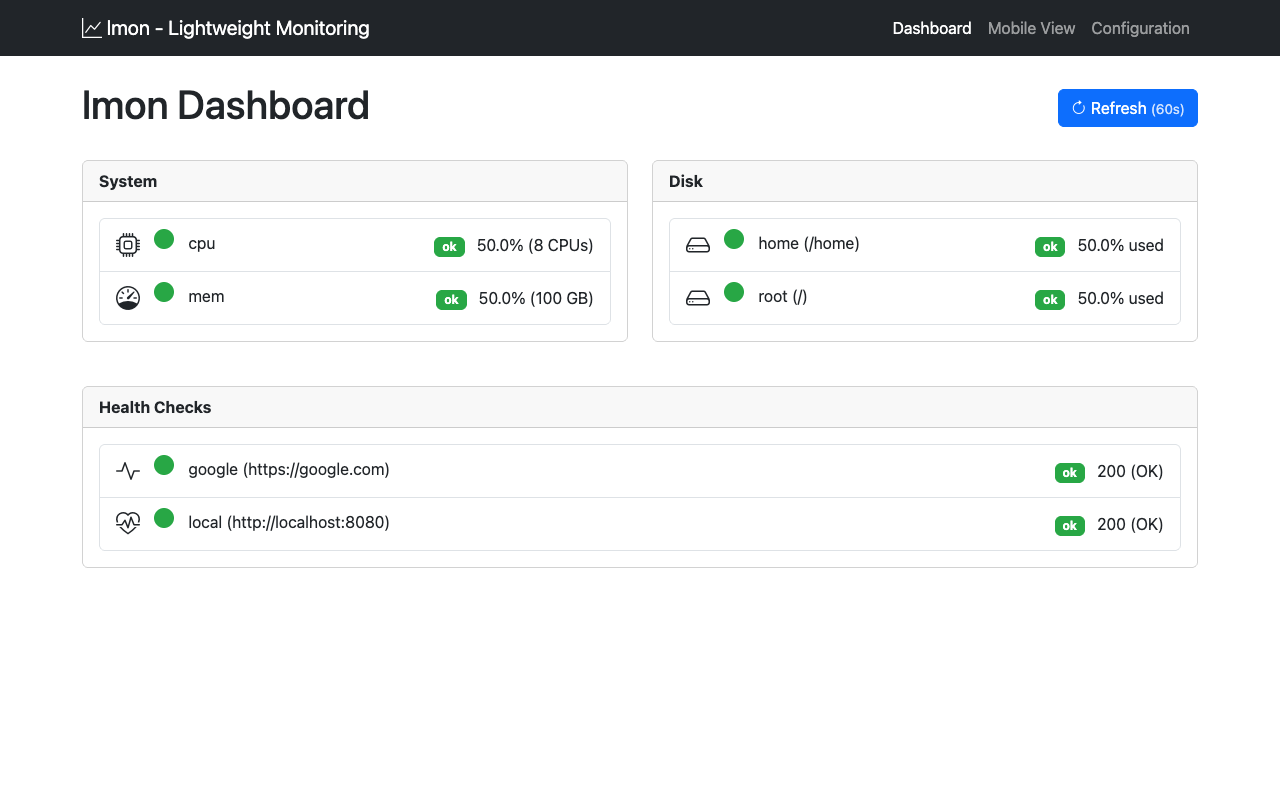
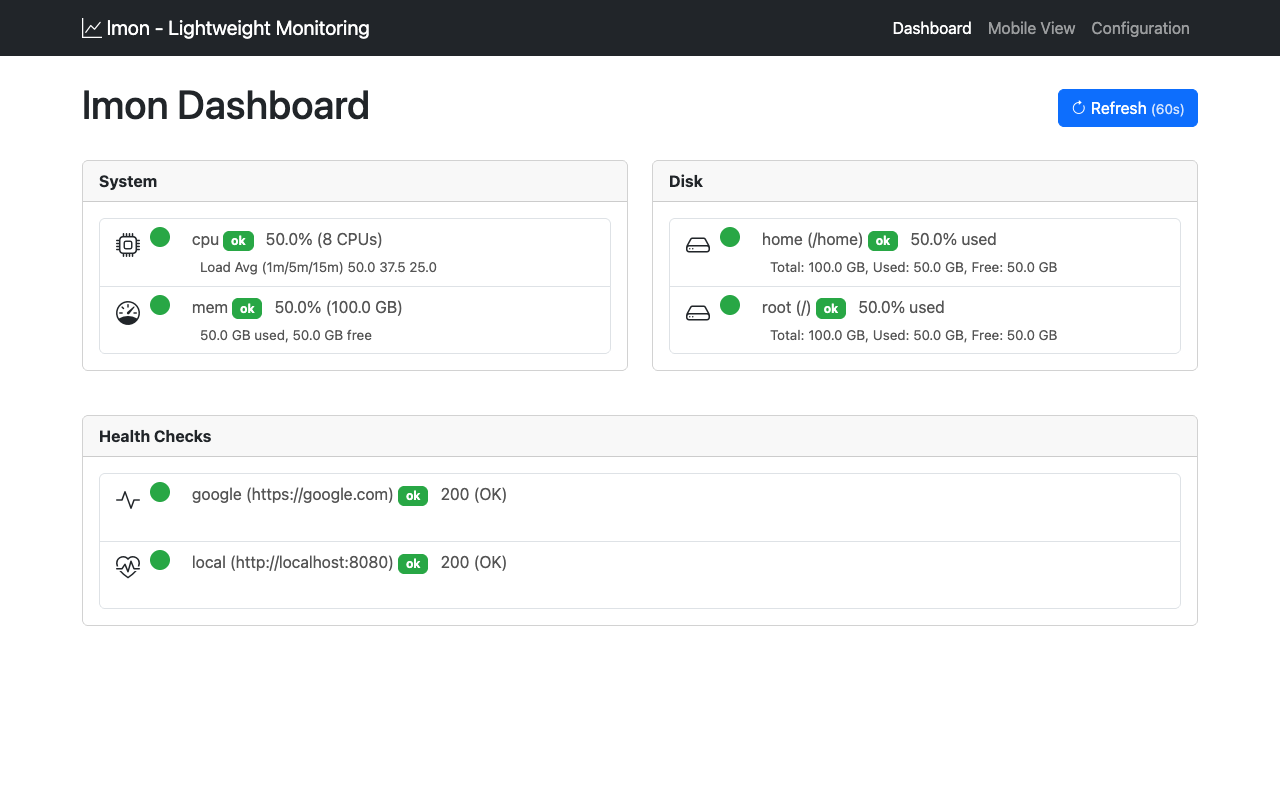
pr feedback addressd

diff --git a/monitors/disk/disk_test.go b/monitors/disk/disk_test.go
@@ -126,12 +126,12 @@ func TestDisk_Check_Mock(t *testing.T) {
 		threshold int
 		want      monitors.Result
 	}{
-		{"green 50", 50, 100 * common.Gigabyte, nil, 90, monitors.Result{Status: monitors.RAGGreen, Value: "50.0% used", Value2: "Total: 100.0 GB, Used: 50.0 GB, Free: 50.0 GB"}},
-		{"green 90", 80, 100 * common.Gigabyte, nil, 90, monitors.Result{Status: monitors.RAGGreen, Value: "80.0% used", Value2: "Total: 100.0 GB, Used: 80.0 GB, Free: 20.0 GB"}},
-		{"amber 81", 81, 100 * common.Gigabyte, nil, 90, monitors.Result{Status: monitors.RAGAmber, Value: "81.0% used", Value2: "Total: 100.0 GB, Used: 81.0 GB, Free: 19.0 GB"}},
-		{"amber 89", 89, 100 * common.Gigabyte, nil, 90, monitors.Result{Status: monitors.RAGAmber, Value: "89.0% used", Value2: "Total: 100.0 GB, Used: 89.0 GB, Free: 11.0 GB"}},
-		{"red   90", 90, 100 * common.Gigabyte, nil, 90, monitors.Result{Status: monitors.RAGRed, Value: "90.0% used", Value2: "Total: 100.0 GB, Used: 90.0 GB, Free: 10.0 GB"}},
-		{"red  100", 100, 100 * common.Gigabyte, nil, 90, monitors.Result{Status: monitors.RAGRed, Value: "100.0% used", Value2: "Total: 100.0 GB, Used: 100.0 GB, Free: 0.0 GB"}},
+		{"green 50", 50, 100 * common.Gigibyte, nil, 90, monitors.Result{Status: monitors.RAGGreen, Value: "50.0% used", Value2: "Total: 100.0 GB, Used: 50.0 GB, Free: 50.0 GB"}},
+		{"green 90", 80, 100 * common.Gigibyte, nil, 90, monitors.Result{Status: monitors.RAGGreen, Value: "80.0% used", Value2: "Total: 100.0 GB, Used: 80.0 GB, Free: 20.0 GB"}},
+		{"amber 81", 81, 100 * common.Gigibyte, nil, 90, monitors.Result{Status: monitors.RAGAmber, Value: "81.0% used", Value2: "Total: 100.0 GB, Used: 81.0 GB, Free: 19.0 GB"}},
+		{"amber 89", 89, 100 * common.Gigibyte, nil, 90, monitors.Result{Status: monitors.RAGAmber, Value: "89.0% used", Value2: "Total: 100.0 GB, Used: 89.0 GB, Free: 11.0 GB"}},
+		{"red   90", 90, 100 * common.Gigibyte, nil, 90, monitors.Result{Status: monitors.RAGRed, Value: "90.0% used", Value2: "Total: 100.0 GB, Used: 90.0 GB, Free: 10.0 GB"}},
+		{"red  100", 100, 100 * common.Gigibyte, nil, 90, monitors.Result{Status: monitors.RAGRed, Value: "100.0% used", Value2: "Total: 100.0 GB, Used: 100.0 GB, Free: 0.0 GB"}},
 	}
 
 	for _, tt := range tests {
@@ -151,7 +151,7 @@ func Test_Check_PushOnAddWithBreach(t *testing.T) {
 	push := monitors.NewMockPush()
 
 	svc := monitors.NewService(t.Context(), 10*time.Millisecond, time.Millisecond, push.Push)
-	d := NewDisk("test", "/test", 90, "", MockDiskProvider{Current: atomic.NewFloat64(90), total: 100 * common.Gigabyte, err: nil, path: "/test"})
+	d := NewDisk("test", "/test", 90, "", MockDiskProvider{Current: atomic.NewFloat64(90), total: 100 * common.Gigibyte, err: nil, path: "/test"})
 	svc.Add(t.Context(), d)
 
 	assert.Eventually(t, func() bool {
@@ -168,7 +168,7 @@ func Test_Check_PushOnAddWithErr(t *testing.T) {
 	push := monitors.NewMockPush()
 
 	svc := monitors.NewService(t.Context(), 10*time.Millisecond, time.Millisecond, push.Push)
-	d := NewDisk("test", "/test", 90, "", MockDiskProvider{Current: atomic.NewFloat64(0), total: 100 * common.Gigabyte, err: os.ErrNotExist, path: "/test"})
+	d := NewDisk("test", "/test", 90, "", MockDiskProvider{Current: atomic.NewFloat64(0), total: 100 * common.Gigibyte, err: os.ErrNotExist, path: "/test"})
 
 	svc.Add(t.Context(), d)
 
@@ -207,7 +207,7 @@ func Test_Check_PushOnChange(t *testing.T) {
 		t.Run(tt.name, func(t *testing.T) {
 			push := monitors.NewMockPush()
 			svc := monitors.NewService(t.Context(), 10*time.Millisecond, time.Millisecond, push.Push)
-			impl := MockDiskProvider{Current: atomic.NewFloat64(tt.initial), total: 100 * common.Gigabyte, path: "/test"}
+			impl := MockDiskProvider{Current: atomic.NewFloat64(tt.initial), total: 100 * common.Gigibyte, path: "/test"}
 			d := NewDisk("test", "/test", 90, "", &impl)
 			svc.Add(t.Context(), d)
 

diff --git a/web/server_test.go b/web/server_test.go
@@ -503,7 +503,7 @@ func TestDeleteBadType(t *testing.T) {
 
 }
 
-func Test_nweUIResult(t *testing.T) {
+func Test_newUIResult(t *testing.T) {
 	c := config.Config{
 		Monitoring: config.MonitoringConfig{
 			System: config.SystemConfig{
@@ -543,17 +543,17 @@ func Test_nweUIResult(t *testing.T) {
 		args args
 		want UIResult
 	}{
-		{"disk", args{"disk_test_d", monitors.Result{Group: disk.Group, Status: monitors.RAGGreen}}, UIResult{Status: monitors.RAGGreen, Icon: "disk-icon", Group: disk.Group}},
+		{"disk", args{"disk_test_d", monitors.Result{Group: disk.Group, Status: monitors.RAGGreen}}, UIResult{Status: monitors.RAGGreen, Icon: "disk-icon", Group: disk.Group, Threshold: 90}},
 		{"health", args{"health_test_h", monitors.Result{Group: healthcheck.Group, Status: monitors.RAGRed}}, UIResult{Status: monitors.RAGRed, Icon: "health-icon", Group: healthcheck.Group}},
-		{"cpu", args{"system_cpu", monitors.Result{Group: system.Group, DisplayName: "cpu", Status: monitors.RAGRed}}, UIResult{Status: monitors.RAGRed, Icon: "cpu-icon", Group: system.Group, DisplayName: "cpu"}},
-		{"mem", args{"system_mem", monitors.Result{Group: system.Group, DisplayName: "mem", Status: monitors.RAGAmber}}, UIResult{Status: monitors.RAGAmber, Icon: "mem-icon", Group: system.Group, DisplayName: "mem"}},
+		{"cpu", args{"system_cpu", monitors.Result{Group: system.Group, DisplayName: "cpu", Status: monitors.RAGRed}}, UIResult{Status: monitors.RAGRed, Icon: "cpu-icon", Group: system.Group, DisplayName: "cpu", Threshold: 90}},
+		{"mem", args{"system_mem", monitors.Result{Group: system.Group, DisplayName: "mem", Status: monitors.RAGAmber}}, UIResult{Status: monitors.RAGAmber, Icon: "mem-icon", Group: system.Group, DisplayName: "mem", Threshold: 90}},
 		{"disk-fallback", args{"disk_test_not-found", monitors.Result{Group: disk.Group, Status: monitors.RAGGreen}}, UIResult{Status: monitors.RAGGreen, Icon: disk.Icon, Group: disk.Group}},
 		{"health-fallback", args{"health_test_not-found", monitors.Result{Group: healthcheck.Group, Status: monitors.RAGRed}}, UIResult{Status: monitors.RAGRed, Icon: healthcheck.Icon, Group: healthcheck.Group}},
 		{"fallback", args{"unknown_unknown", monitors.Result{Group: "unknown", Status: monitors.RAGError}}, UIResult{Status: monitors.RAGError, Icon: "folder", Group: "unknown"}},
 	}
 	for _, tt := range tests {
 		t.Run(tt.name, func(t *testing.T) {
-			assert.Equalf(t, tt.want, nweUIResult(tt.args.id, tt.args.item, &c), "nweUIResult(%v, %v, %v)", tt.args.id, tt.args.item, c)
+			assert.Equalf(t, tt.want, newUIResult(tt.args.id, tt.args.item, &c), "newUIResult(%v, %v, %v)", tt.args.id, tt.args.item, c)
 		})
 	}
 }

diff --git a/web/server.go b/web/server.go
@@ -327,6 +327,7 @@ type UIResult struct {
 	Value2      string       // Optional second value for additional context
 	Group       string       // Group/category of the monitor
 	DisplayName string       // Display name for UI
+	Threshold   int          // Threshold for the monitor, if applicable
 }
 
 // handleGetItems responds with a JSON object containing all monitored items and their statuses.
@@ -342,21 +343,22 @@ func (s *Server) handleGetItems(w http.ResponseWriter, _ *http.Request) {
 func (s *Server) joinConfigToResults(items map[string]monitors.Result) map[string]UIResult {
 	results := make(map[string]UIResult)
 	for id, item := range items {
-		results[id] = nweUIResult(id, item, s.config)
+		results[id] = newUIResult(id, item, s.config)
 	}
 	return results
 }
 
 // Find icon and add it to the result.
-func nweUIResult(id string, item monitors.Result, c *config.Config) UIResult {
+func newUIResult(id string, item monitors.Result, c *config.Config) UIResult {
 	icon := "folder" // default icon if no specific icon is found
-
+	threshold := 0   // default threshold if not set
 	switch item.Group {
 	case disk.Group:
 		icon = disk.Icon // fallback to the default disk icon
 		for k, d := range c.Monitoring.Disk {
 			if item.Group+"_"+k == id {
 				icon = d.Icon
+				threshold = d.Threshold
 				break
 			}
 		}
@@ -372,8 +374,10 @@ func nweUIResult(id string, item monitors.Result, c *config.Config) UIResult {
 		switch item.DisplayName {
 		case system.CPUDisplayName:
 			icon = c.Monitoring.System.CPU.Icon
+			threshold = c.Monitoring.System.CPU.Threshold
 		case system.MemDisplayName:
 			icon = c.Monitoring.System.Memory.Icon
+			threshold = c.Monitoring.System.Memory.Threshold
 		}
 	default:
 		// fallback to a generic icon if no specific icon is found
@@ -386,6 +390,7 @@ func nweUIResult(id string, item monitors.Result, c *config.Config) UIResult {
 		Value2:      item.Value2,
 		Group:       item.Group,
 		DisplayName: item.DisplayName,
+		Threshold:   threshold,
 	}
 }
 
@@ -406,7 +411,7 @@ func (s *Server) handleGetItem(w http.ResponseWriter, r *http.Request) {
 		log.Printf("handleGetItem: item not found: %s", id)
 		return
 	}
-	s.writeJson(w, nweUIResult(name, item, s.config))
+	s.writeJson(w, newUIResult(name, item, s.config))
 }
 
 // handleGetConfig responds with the current server configuration as JSON.

diff --git a/monitors/system/mem_test.go b/monitors/system/mem_test.go
@@ -80,12 +80,12 @@ func TestMem_Check_Mock(t *testing.T) {
 		threshold int
 		want      monitors.Result
 	}{
-		{"green 50", 50, nil, 90, monitors.Result{Status: monitors.RAGGreen, Value: "50.0% (100 GB)", Value2: "50.0 GB used, 50.0 GB free"}},
-		{"green 90", 80, nil, 90, monitors.Result{Status: monitors.RAGGreen, Value: "80.0% (100 GB)", Value2: "80.0 GB used, 20.0 GB free"}},
-		{"amber 81", 81, nil, 90, monitors.Result{Status: monitors.RAGAmber, Value: "81.0% (100 GB)", Value2: "81.0 GB used, 19.0 GB free"}},
-		{"amber 89", 89, nil, 90, monitors.Result{Status: monitors.RAGAmber, Value: "89.0% (100 GB)", Value2: "89.0 GB used, 11.0 GB free"}},
-		{"red 90", 90, nil, 90, monitors.Result{Status: monitors.RAGRed, Value: "90.0% (100 GB)", Value2: "90.0 GB used, 10.0 GB free"}},
-		{"red 100", 100, nil, 90, monitors.Result{Status: monitors.RAGRed, Value: "100.0% (100 GB)", Value2: "100.0 GB used, 0.0 GB free"}},
+		{"green 50", 50, nil, 90, monitors.Result{Status: monitors.RAGGreen, Value: "50.0% (100.0 GB)", Value2: "50.0 GB used, 50.0 GB free"}},
+		{"green 90", 80, nil, 90, monitors.Result{Status: monitors.RAGGreen, Value: "80.0% (100.0 GB)", Value2: "80.0 GB used, 20.0 GB free"}},
+		{"amber 81", 81, nil, 90, monitors.Result{Status: monitors.RAGAmber, Value: "81.0% (100.0 GB)", Value2: "81.0 GB used, 19.0 GB free"}},
+		{"amber 89", 89, nil, 90, monitors.Result{Status: monitors.RAGAmber, Value: "89.0% (100.0 GB)", Value2: "89.0 GB used, 11.0 GB free"}},
+		{"red 90", 90, nil, 90, monitors.Result{Status: monitors.RAGRed, Value: "90.0% (100.0 GB)", Value2: "90.0 GB used, 10.0 GB free"}},
+		{"red 100", 100, nil, 90, monitors.Result{Status: monitors.RAGRed, Value: "100.0% (100.0 GB)", Value2: "100.0 GB used, 0.0 GB free"}},
 		{"err", 100, os.ErrPermission, 90, monitors.Result{Status: monitors.RAGError, Value: "error getting mem usage: permission denied"}},
 	}
 
@@ -93,7 +93,7 @@ func TestMem_Check_Mock(t *testing.T) {
 		tt := tt
 		t.Run(tt.name, func(t *testing.T) {
 			c := NewMem(tt.threshold, "", MockMemProvider{Current: atomic.NewFloat64(tt.usage),
-				total: 100 * common.Gigabyte, err: tt.err})
+				total: 100 * common.Gigibyte, err: tt.err})
 			r := c.Check(t.Context())
 			assert.Equal(t, tt.want.Status, r.Status, "status")
 			assert.Equal(t, tt.want.Value, r.Value, "value")

diff --git a/monitors/system/cpu.go b/monitors/system/cpu.go
@@ -95,8 +95,9 @@ func (d *defaultCpuProvider) Usage() (CpuStat, error) {
 	if len(times) == 0 {
 		return CpuStat{}, fmt.Errorf("no CPU times available")
 	}
-	d.cpuCount = len(times) - 1 // Ignore the first entry which is the total CPU time
 	usage := calculateCPUPercentage(times[0], d.prevCPUTimes)
+
+	d.cpuCount, _ = cpu.Counts(true) // take what's available, even if it fails
 
 	d.prevCPUTimes = times[0]
 	d.lastCPUCheck = time.Now()
@@ -208,7 +209,7 @@ func (c Cpu) Check(_ context.Context) monitors.Result {
 		}
 	}
 	val := fmt.Sprintf("%.1f%% (%d CPUs)", stat.Usage, stat.Count)
-	Val2 := fmt.Sprintf("Load Avg (1m/5m/15m)  %.1f %.1f %.1f", stat.Load1m, stat.Load5m, stat.Load15m)
+	val2 := fmt.Sprintf("Load Avg (1m/5m/15m)  %.1f %.1f %.1f", stat.Load1m, stat.Load5m, stat.Load15m)
 	status := monitors.RAGGreen
 	switch {
 	case stat.Usage >= float64(c.threshold):
@@ -219,6 +220,6 @@ func (c Cpu) Check(_ context.Context) monitors.Result {
 	return monitors.Result{
 		Status: status,
 		Value:  val,
-		Value2: Val2,
+		Value2: val2,
 	}
 }

diff --git a/monitors/system/mock_test.go b/monitors/system/mock_test.go
@@ -28,8 +28,8 @@ func TestNewMockMemProvider(t *testing.T) {
 	u, err := m.Usage()
 	assert.NoError(t, err, "should not error")
 	assert.Equal(t, 40.0, u.UsedPercent, "UsedPercent should match initial value")
-	assert.Equal(t, uint64(common.Gigabyte*100), u.Total, "Total should match initial value")
-	assert.Equal(t, uint64(common.Gigabyte*40), u.Used, "Used should match 50% of total")
-	assert.Equal(t, uint64(common.Gigabyte*60), u.Available, "Available should match 50% of total")
+	assert.Equal(t, uint64(common.Gigibyte*100), u.Total, "Total should match initial value")
+	assert.Equal(t, uint64(common.Gigibyte*40), u.Used, "Used should match 40% of total")
+	assert.Equal(t, uint64(common.Gigibyte*60), u.Available, "Available should match 60% of total")
 
 }

diff --git a/monitors/system/mem.go b/monitors/system/mem.go
@@ -126,8 +126,8 @@ func (c Mem) Check(_ context.Context) monitors.Result {
 			Value:  fmt.Sprintf("error getting mem usage: %v", err),
 		}
 	}
-	val := fmt.Sprintf("%.1f%% (%d GB)", usage.UsedPercent, usage.Total/common.Gigabyte)
-	val2 := fmt.Sprintf("%.1f GB used, %.1f GB free", float64(usage.Used)/common.Gigabyte, float64(usage.Available)/common.Gigabyte)
+	val := fmt.Sprintf("%.1f%% (%.1f GB)", usage.UsedPercent, float64(usage.Total)/common.Gigibyte)
+	val2 := fmt.Sprintf("%.1f GB used, %.1f GB free", float64(usage.Used)/common.Gigibyte, float64(usage.Available)/common.Gigibyte)
 	status := monitors.RAGGreen
 	switch {
 	case usage.UsedPercent >= float64(c.threshold):

diff --git a/monitors/system/mock.go b/monitors/system/mock.go
@@ -60,5 +60,5 @@ func (m MockMemProvider) Usage() (*mem.VirtualMemoryStat, error) {
 
 // NewMockMemProvider creates a new MockMemProvider with the given initial usage percentage.
 func NewMockMemProvider(initial float64) *MockMemProvider {
-	return &MockMemProvider{Current: atomic.NewFloat64(initial), total: 100 * common.Gigabyte}
+	return &MockMemProvider{Current: atomic.NewFloat64(initial), total: 100 * common.Gigibyte}
 }

diff --git a/monitors/disk/disk.go b/monitors/disk/disk.go
@@ -147,7 +147,7 @@ func (d Disk) Check(_ context.Context) monitors.Result {
 		}
 	}
 
-	total := float64(usage.Total) / common.Gigabyte
+	total := float64(usage.Total) / common.Gigibyte
 	used := total * usage.UsedPercent / 100.0
 	res := fmt.Sprintf("%.1f%% used", usage.UsedPercent)
 	res2 := fmt.Sprintf("Total: %.1f GB, Used: %.1f GB, Free: %.1f GB", total, used, total-used)

diff --git a/monitors/disk/mock.go b/monitors/disk/mock.go
@@ -36,6 +36,6 @@ func (m MockDiskProvider) Usage(_ string) (*disk.UsageStat, error) {
 func NewMockDiskProvider(initial float64) *MockDiskProvider {
 	return &MockDiskProvider{
 		Current: atomic.NewFloat64(initial),
-		total:   100 * common.Gigabyte,
+		total:   100 * common.Gigibyte,
 	}
 }

diff --git a/common/constants.go b/common/constants.go
@@ -1,3 +1,3 @@
 package common
 
-const Gigabyte = 1024 * 1024 * 1024
+const Gigibyte = 1024 * 1024 * 1024
